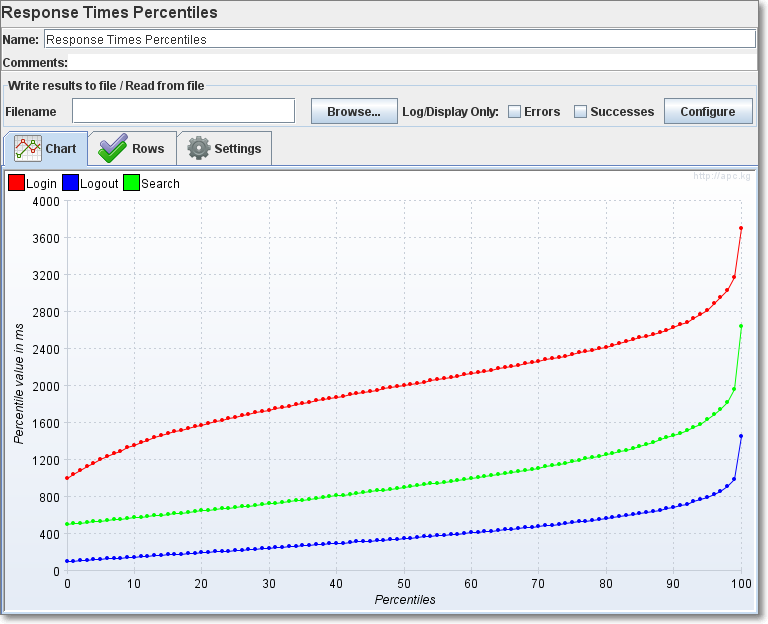
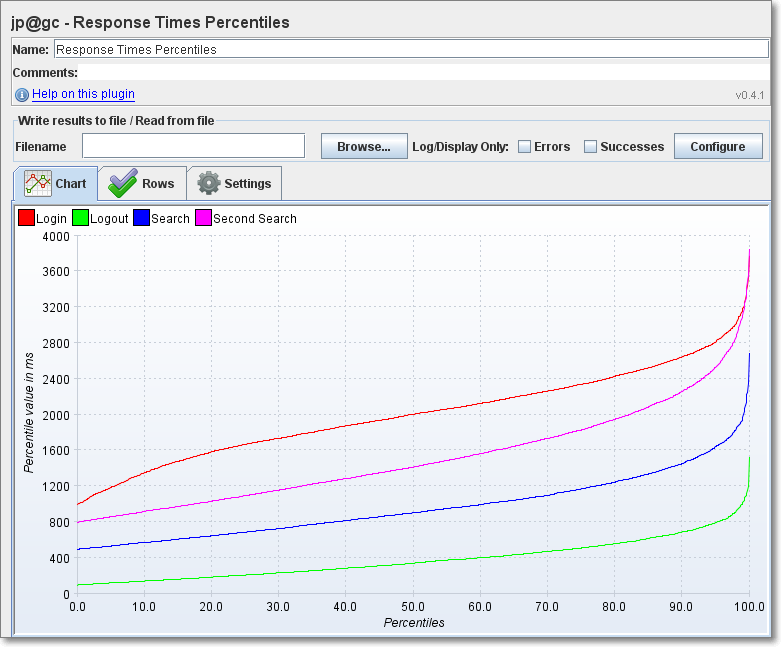
Fixed Percentile CSV Export Updated wiki image Moved DividerRenderer to charting package to avoid cyclic dependencies

diff --git a/src/kg/apc/jmeter/charting/GraphModelToCsvExporter.java b/src/kg/apc/jmeter/charting/GraphModelToCsvExporter.java
@@ -11,6 +11,7 @@ import java.util.ArrayList;
 import java.util.Iterator;
 import java.util.Map.Entry;
 import java.util.concurrent.ConcurrentSkipListSet;
+import org.apache.jorphan.gui.NumberRenderer;
 
 /**
  *
@@ -24,12 +25,14 @@ public class GraphModelToCsvExporter
     private char decimalSeparator;
     private SimpleDateFormat dateFormatter;
     private String xAxisLabel;
+    private NumberRenderer xAxisRenderer;
 
     public GraphModelToCsvExporter(
             AbstractMap<String, AbstractGraphRow> rows,
             File destFile,
             String csvSeparator,
-            String xAxisLabel)
+            String xAxisLabel,
+            NumberRenderer xAxisRenderer)
     {
         this.destFile = destFile;
         this.model = rows;
@@ -37,6 +40,11 @@ public class GraphModelToCsvExporter
         this.decimalSeparator = new DecimalFormatSymbols().getDecimalSeparator();
         dateFormatter = new SimpleDateFormat("HH:mm:ss" + decimalSeparator + "S");
         this.xAxisLabel = xAxisLabel;
+        if(xAxisRenderer != null && xAxisRenderer instanceof DividerRenderer) {
+            this.xAxisRenderer = new DividerRenderer(((DividerRenderer)xAxisRenderer).getFactor());
+        } else {
+            this.xAxisRenderer = null;
+        }
     }
 
     //used for Unit Tests only as of now
@@ -46,20 +54,23 @@ public class GraphModelToCsvExporter
             String csvSeparator,
             char decimalSeparator)
     {
-        this(rows, destFile, csvSeparator, "Elapsed time");
+        this(rows, destFile, csvSeparator, "Elapsed time", null);
         this.decimalSeparator = decimalSeparator;
         dateFormatter = new SimpleDateFormat("HH:mm:ss" + decimalSeparator + "S");
     }
 
     private String xValueFormatter(long xValue)
     {
-        if (xValue > 1000000000000L)
-        {
-            return dateFormatter.format(xValue);
-        } else
-        {
-            return "" + xValue;
+        String ret;
+        if(xAxisRenderer != null) {
+            xAxisRenderer.setValue(xValue);
+            ret = xAxisRenderer.getText();
+        } else if (xValue > 1000000000000L) {
+            ret = dateFormatter.format(xValue);
+        } else {
+            ret = "" + xValue;
         }
+        return ret;
     }
 
     public void writeCsvFile() throws IOException

diff --git a/test/kg/apc/jmeter/charting/DividerRendererTest.java b/test/kg/apc/jmeter/charting/DividerRendererTest.java
@@ -1,4 +1,4 @@
-package kg.apc.jmeter.vizualizers;
+package kg.apc.jmeter.charting;
 
 import org.junit.After;
 import org.junit.AfterClass;
@@ -37,11 +37,17 @@ public class DividerRendererTest {
      */
     @Test
     public void testSetValue() {
-        System.out.println("setValue");
-        Object value = new Long(54);
+        
+    }
+
+    /**
+     * Test of getFactor method, of class DividerRenderer.
+     */
+    @Test
+    public void testGetFactor() {
+        System.out.println("testGetFactor");
         DividerRenderer instance = new DividerRenderer(10);
-        instance.setValue(value);
-        assertEquals("5.4", instance.getText());
+        assertTrue(instance.getFactor() == 10);
     }
 
 }

diff --git a/src/kg/apc/jmeter/charting/GraphRowPercentiles.java b/src/kg/apc/jmeter/charting/GraphRowPercentiles.java
@@ -16,7 +16,8 @@ public class GraphRowPercentiles extends GraphRowSumValues {
     public GraphRowPercentiles() {
         super();
         //create percentiles objects, and reuse them to avoid GC
-        for (long p = 1; p <= 100 * FRACTION; p++) {
+        //we remove p=100 as we now have 99.9 percentile which is enough, and by doing this loiterings will not break chart anymore
+        for (long p = 1; p <= 100 * FRACTION-1; p++) {
             percentiles.put(p, new GraphPanelChartExactElement(p, 0));
         }
     }

diff --git a/src/kg/apc/jmeter/charting/DividerRenderer.java b/src/kg/apc/jmeter/charting/DividerRenderer.java
@@ -1,4 +1,4 @@
-package kg.apc.jmeter.vizualizers;
+package kg.apc.jmeter.charting;
 
 import org.apache.jorphan.gui.NumberRenderer;
 
@@ -6,11 +6,15 @@ import org.apache.jorphan.gui.NumberRenderer;
  *
  * @author undera
  */
-class DividerRenderer extends NumberRenderer{
+public class DividerRenderer extends NumberRenderer{
     private final double factor;
 
     public DividerRenderer(double i) {
         factor=i;
+    }
+
+    public double getFactor() {
+        return factor;
     }
 
     @Override

diff --git a/src/kg/apc/jmeter/charting/GraphPanelChart.java b/src/kg/apc/jmeter/charting/GraphPanelChart.java
@@ -1253,7 +1253,7 @@ public class GraphPanelChart
 
     public void saveGraphToCSV(File file) throws IOException {
         log.info("Saving CSV to "+file.getAbsolutePath());
-        GraphModelToCsvExporter exporter = new GraphModelToCsvExporter(rows, file, csvSeparator, xAxisLabel);
+        GraphModelToCsvExporter exporter = new GraphModelToCsvExporter(rows, file, csvSeparator, xAxisLabel, xAxisLabelRenderer);
         exporter.writeCsvFile();
     }
 

diff --git a/src/kg/apc/jmeter/JMeterPluginsUtils.java b/src/kg/apc/jmeter/JMeterPluginsUtils.java
@@ -34,7 +34,7 @@ import org.apache.jmeter.util.JMeterUtils;
  */
 public abstract class JMeterPluginsUtils {
 
-    public static String PLUGINS_VERSION = "0.4.1";
+    public static String PLUGINS_VERSION = "0.4.2 snapshot";
     private static String PLUGINS_PREFIX = "jp@gc - ";
     private static boolean prefixPlugins = true;
     public static final String WIKI_BASE = "http://code.google.com/p/jmeter-plugins/wiki/";

diff --git a/src/kg/apc/jmeter/vizualizers/ResponseTimesPercentilesGui.java b/src/kg/apc/jmeter/vizualizers/ResponseTimesPercentilesGui.java
@@ -1,5 +1,6 @@
 package kg.apc.jmeter.vizualizers;
 
+import kg.apc.jmeter.charting.DividerRenderer;
 import java.awt.Color;
 import kg.apc.jmeter.JMeterPluginsUtils;
 import kg.apc.jmeter.charting.AbstractGraphRow;

diff --git a/test/kg/apc/jmeter/vizualizers/VizualizersSuite.java b/test/kg/apc/jmeter/vizualizers/VizualizersSuite.java
@@ -4,6 +4,7 @@
  */
 package kg.apc.jmeter.vizualizers;
 
+import kg.apc.jmeter.charting.DividerRendererTest;
 import org.junit.After;
 import org.junit.AfterClass;
 import org.junit.Before;
